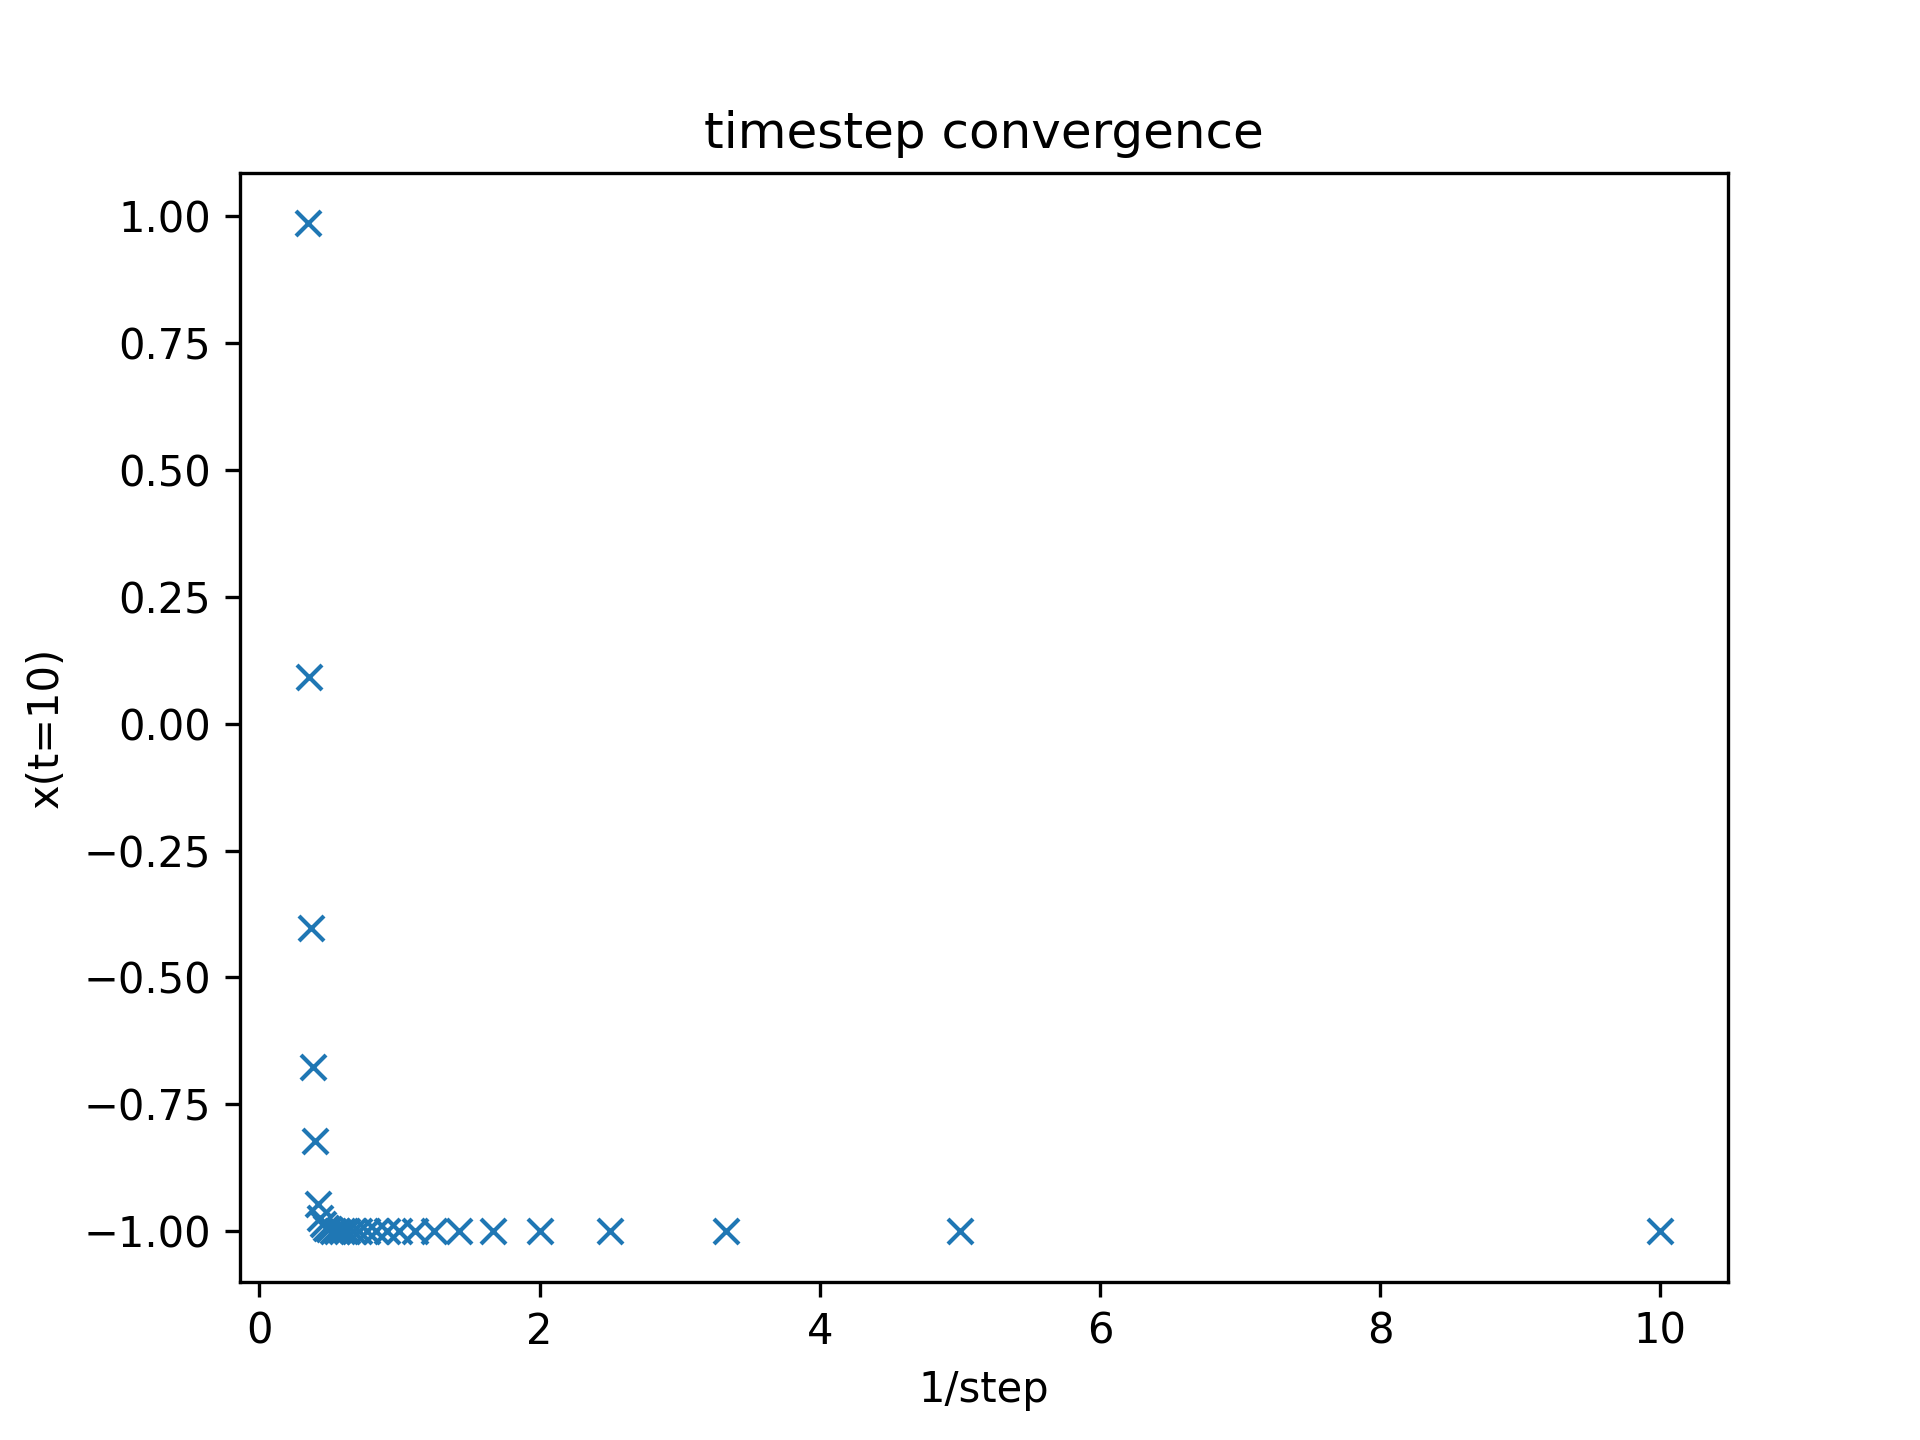
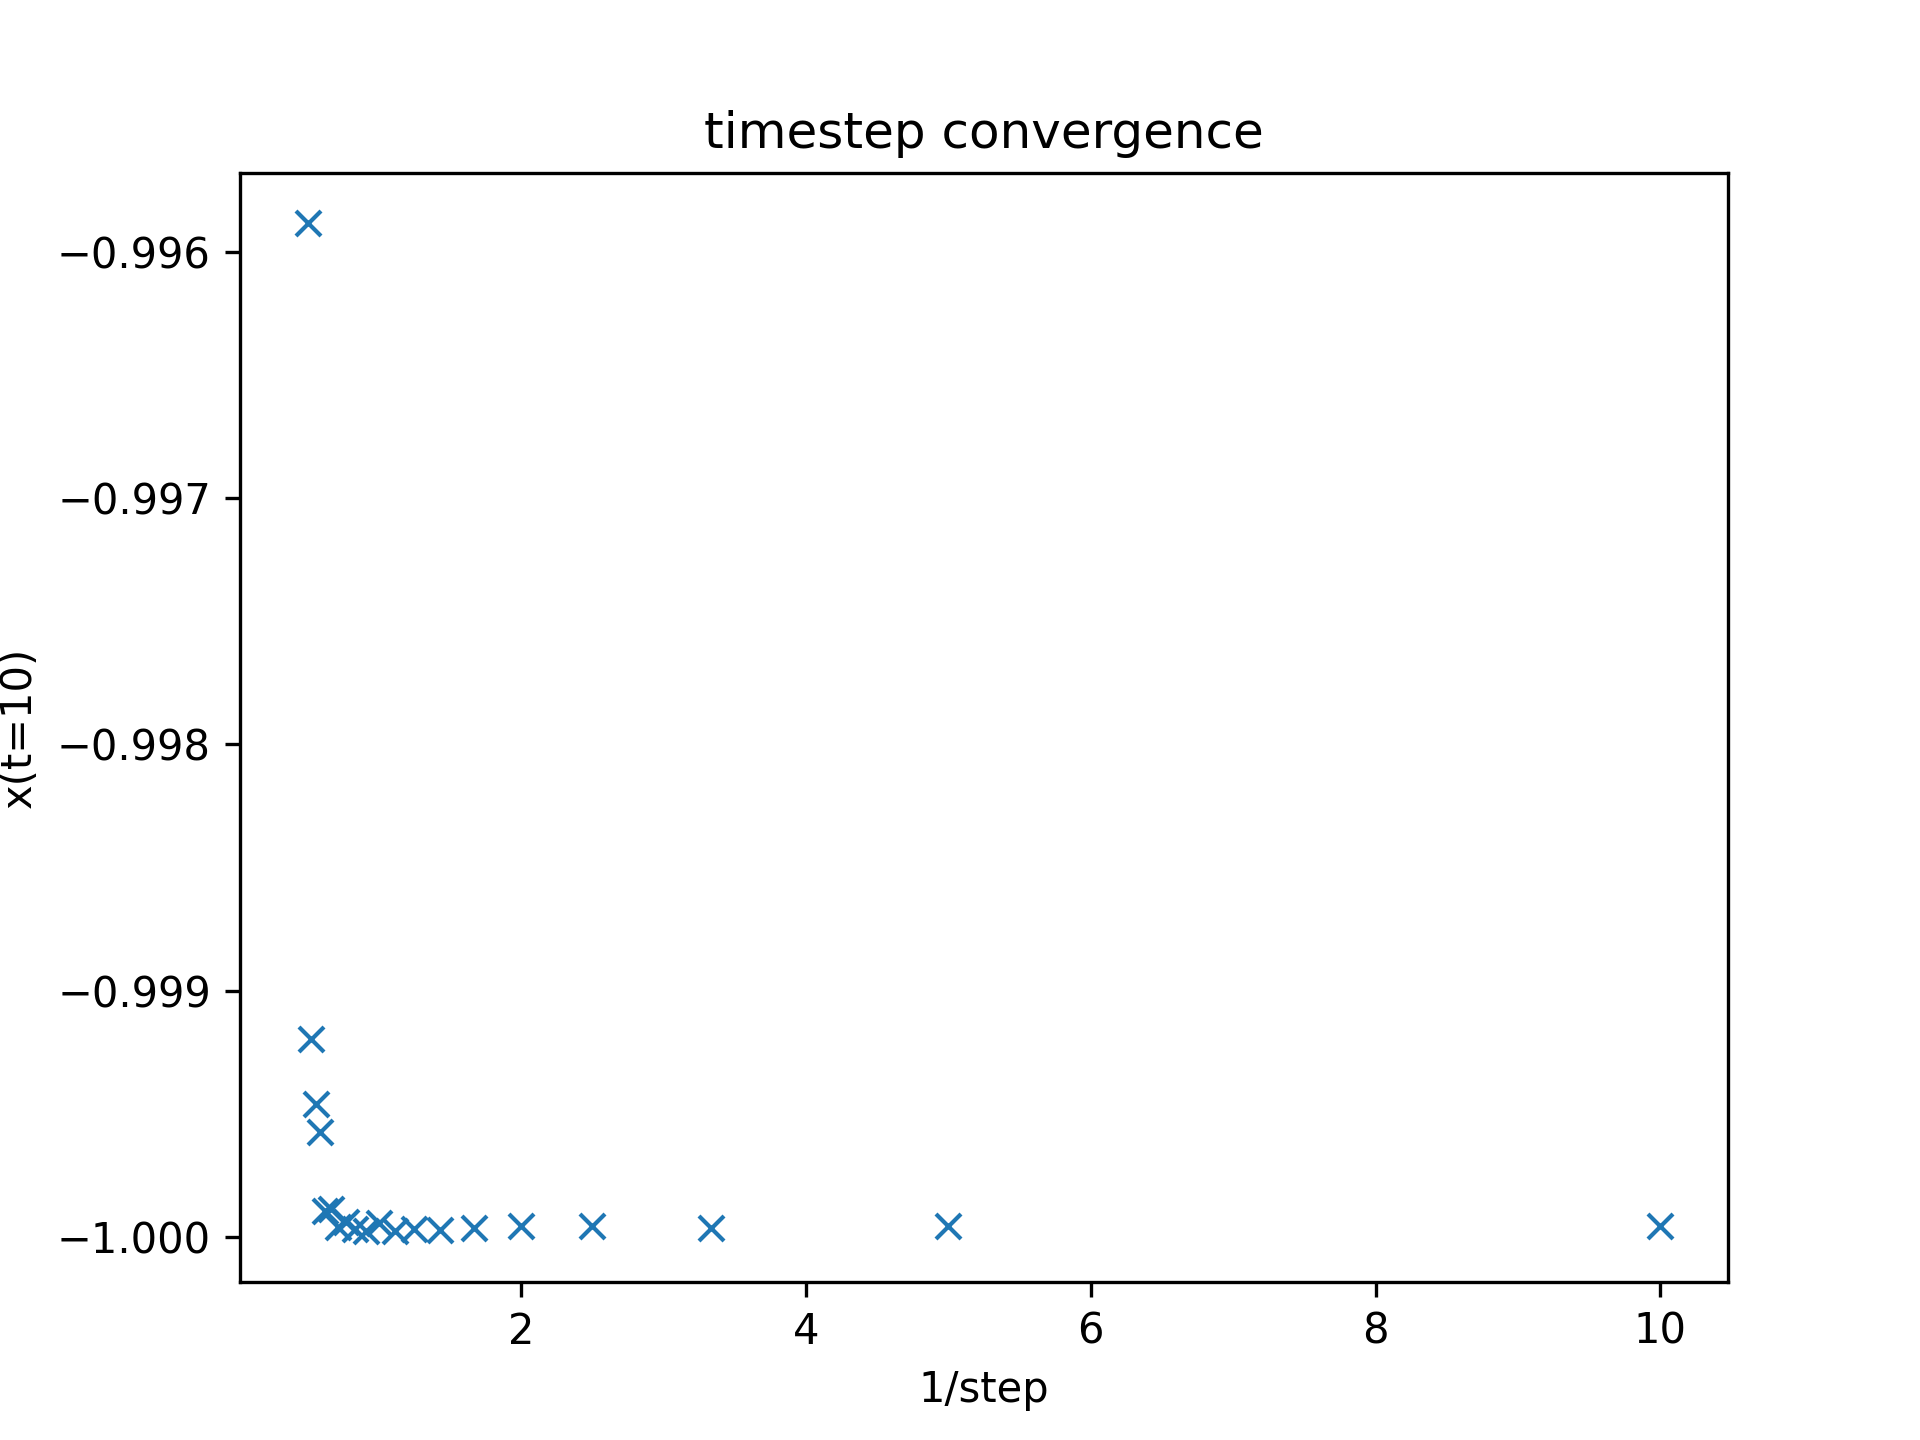
minor tweaks

diff --git a/benchmark.py b/benchmark.py
@@ -181,7 +181,7 @@ def plot_benchmark():
 
     x_at_ten = []
 
-    step_size = np.arange(0.1, 3, 0.1)
+    step_size = np.arange(0.1, 2.1, 0.1)
     inverse_step_size = 1/step_size
 
     for step in step_size:
